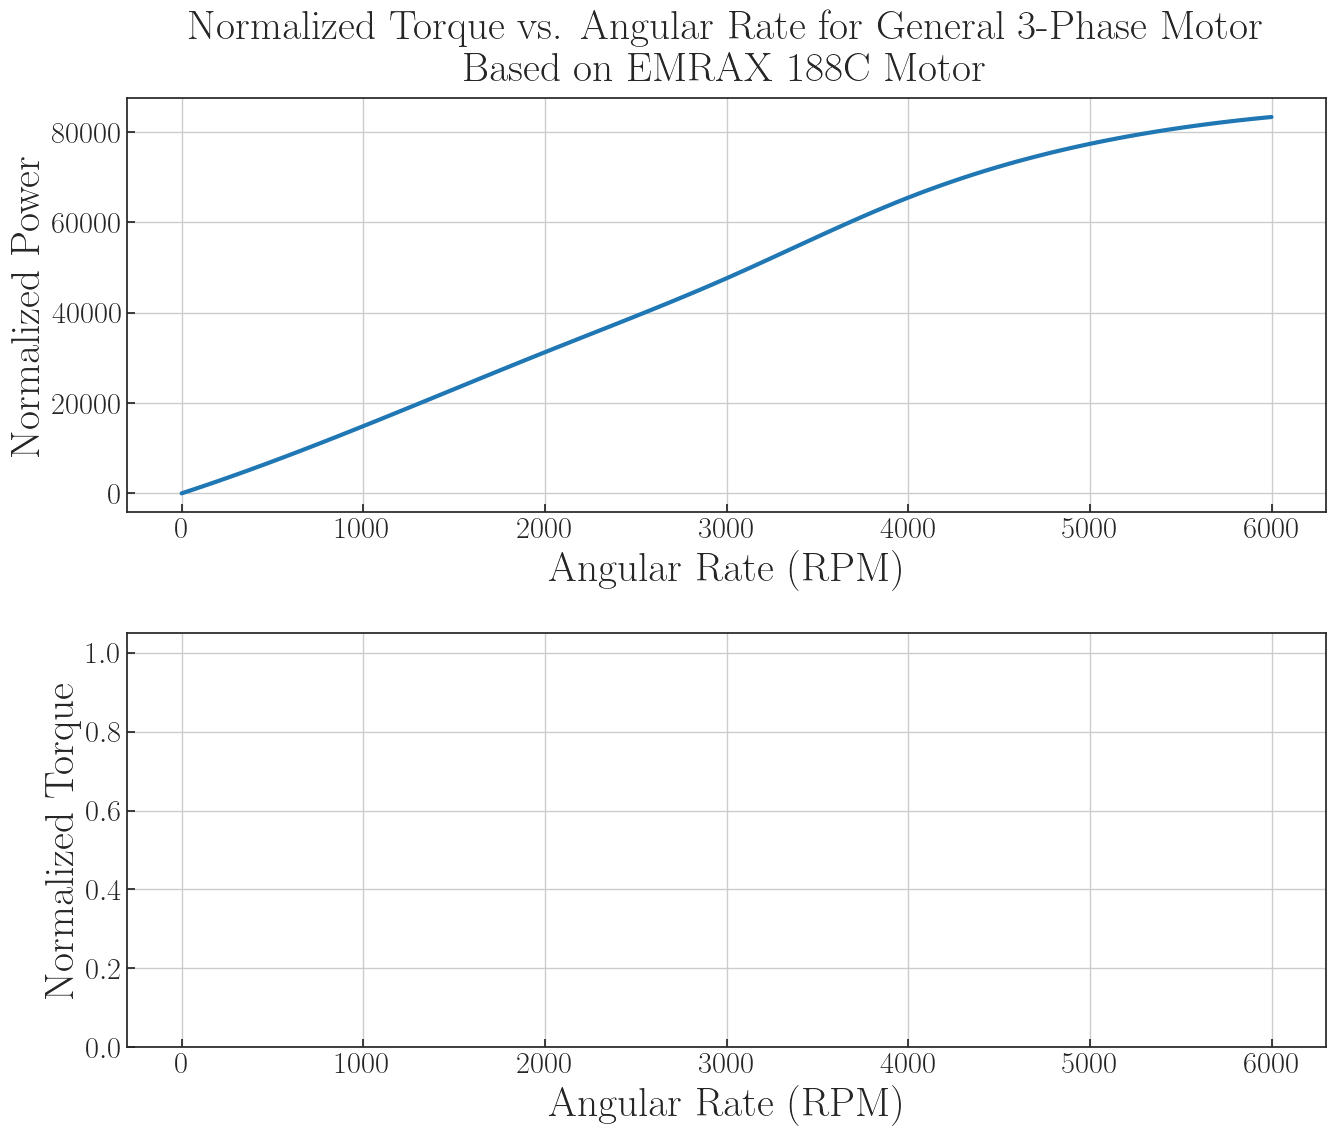
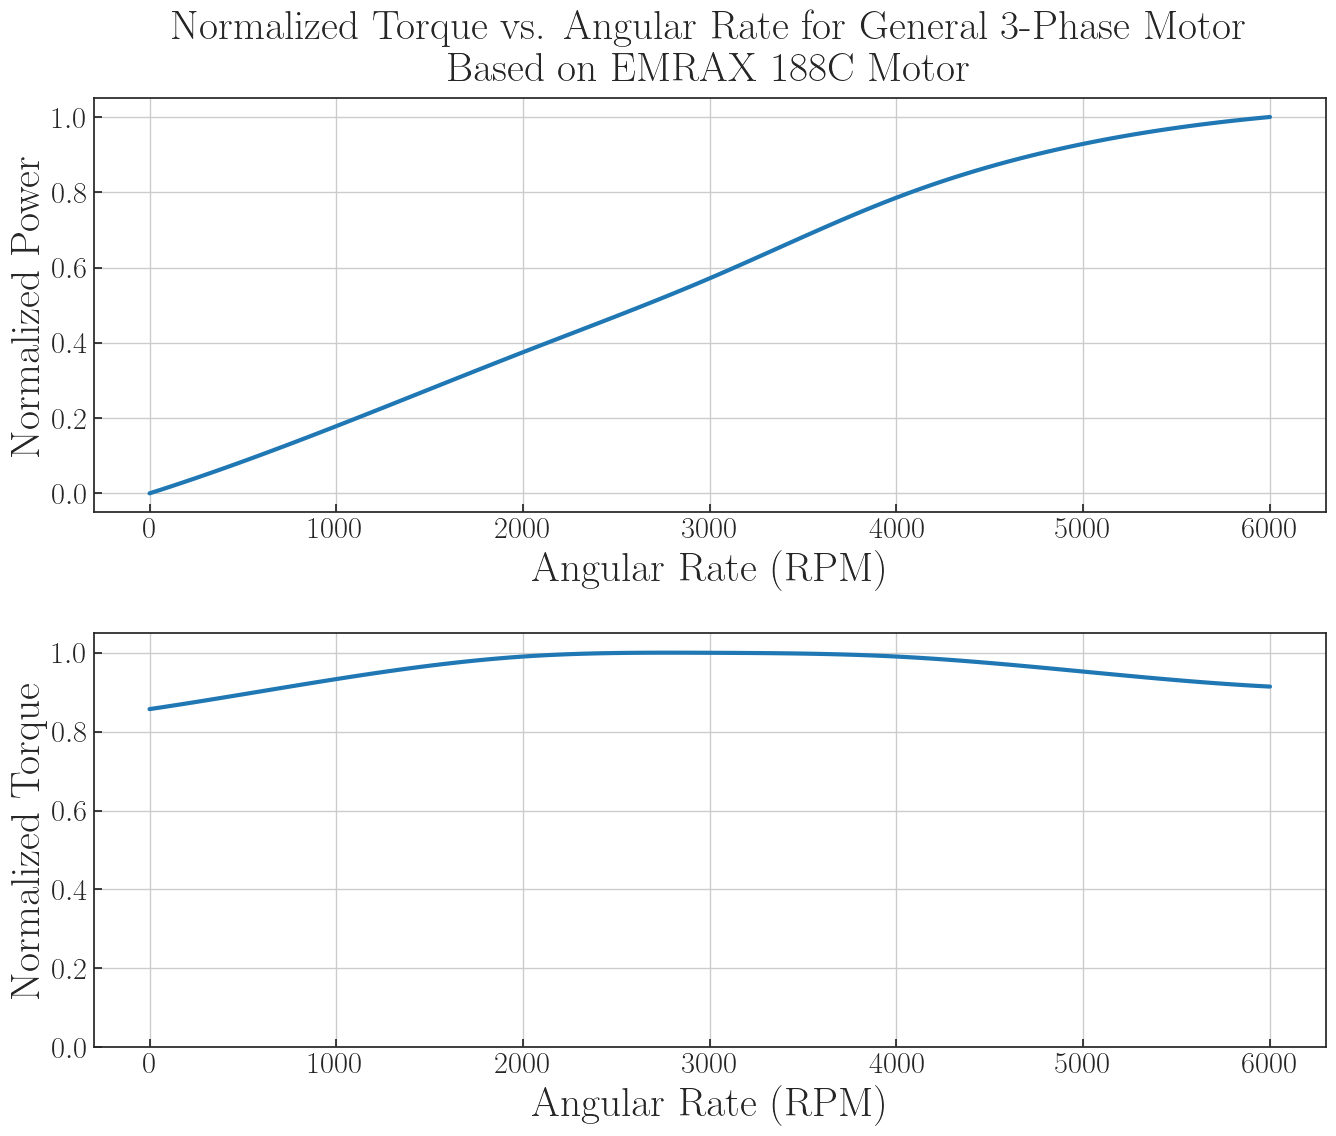
Quick commit
TVG 04.06.2021

diff --git a/Python_Codes/general_motor_performance.py b/Python_Codes/general_motor_performance.py
@@ -1,12 +1,12 @@
 # Quick plotting utility to show the normalized performance of electric motor
 # TVG 03.07.2021
 
+import scipy.interpolate as sci
 import numpy
 import matplotlib.pyplot as plt
 import sys
 sys.path.append("../Utilities")
 
-import scipy.interpolate as sci
 
 try:
     import formatfigures
@@ -17,46 +17,90 @@ except:
     print("Not using latex formatting")
     latex = False
 
-Emrax188_HV_CC = numpy.array([[0, 0],
-                                         [1000, 5000],
-                                         [2000, 10500],
-                                         [3000, 16000],
-                                         [4000, 22000],
-                                         [5000, 26000],
-                                         [6000, 28000]])
-
-Emrax188_HV_CC_Q = numpy.array([[45],
-                                    [49],
-                                    [52],
-                                    [52.5],
-                                    [52],
-                                    [50],
-                                    [48]])
+Emrax188_HV_CC = numpy.array([[0, 0, 45],
+                              [1000, 5000, 49],
+                              [2000, 10500, 52],
+                              [3000, 16000, 52.5],
+                              [4000, 22000, 52],
+                              [5000, 26000, 50],
+                              [6000, 28000, 48]])
 
 
-x = Emrax188_HV_CC[:,0]
-y = Emrax188_HV_CC[:,1]/Emrax188_HV_CC[6,1]
-z = Emrax188_HV_CC_Q[:,0]/max(Emrax188_HV_CC_Q)
+def cubicinterp(x, y, z):
+    xx = numpy.linspace(x.min(), x.max(), 100)
+    yy = sci.CubicSpline(x, y)
+    zz = sci.CubicSpline(x, z)
 
-xx = numpy.linspace(x.min(),x.max(),100)
-yy = sci.CubicSpline(x,y)
-zz = sci.CubicSpline(x,z)
+    return xx, yy, zz
+
+
+x = Emrax188_HV_CC[:, 0]
+y = Emrax188_HV_CC[:, 1]/Emrax188_HV_CC[6, 1]
+z = Emrax188_HV_CC[:, 2]/max(Emrax188_HV_CC[:, 2])
+xx1, yy1, zz1 = cubicinterp(x, y, z)
 
 plt.figure(figsize=(14, 12))
-plt.subplot(2,1,1)
-plt.plot(xx, yy(xx))
+plt.subplot(2, 1, 1)
+plt.plot(xx1, yy1(xx1))
 plt.xlabel("Angular Rate (RPM) ")
 plt.ylabel("Normalized Power")
 
 plt.title("Normalized Torque vs. Angular Rate for General 3-Phase Motor \n Based on EMRAX 188C Motor")
 
-plt.subplot(2,1,2)
-plt.plot(xx, zz(xx))
+plt.subplot(2, 1, 2)
+plt.plot(xx1, zz1(xx1))
 plt.xlabel("Angular Rate (RPM) ")
 plt.ylabel("Normalized Torque")
-plt.ylim((0,1.05))
+plt.ylim((0, 1.05))
 
 
 plt.tight_layout()
 plt.savefig('./Figures/motor_performance_general.png', bbox_inches='tight')
+
+# Comparison between different motors
+HPDM_250 = numpy.array([[0, 0, 120],
+                        [4000, 50000, 120],
+                        [8000, 100000, 120],
+                        [12000, 150000, 120],
+                        [16000, 190000, 115],
+                        [20000, 205000, 100]])
+
+x = HPDM_250[:, 0]/max(HPDM_250[:, 0])*max(Emrax188_HV_CC[:, 0])
+y = HPDM_250[:, 1]/max(HPDM_250[:, 1])
+z = HPDM_250[:, 2]/max(HPDM_250[:, 2])
+xx2, yy2, zz2 = cubicinterp(x, y, z)
+
+MAGNIX_250 = numpy.array([[0, 0, 1100],
+                          [1000, 96.66, 1400],
+                          [2000, 193.33, 1400],
+                          [3000, 290, 1400]])
+
+x = MAGNIX_250[:, 0]/max(MAGNIX_250[:, 0])*max(Emrax188_HV_CC[:, 0])
+y = MAGNIX_250[:, 1]/max(MAGNIX_250[:, 1])
+z = MAGNIX_250[:, 2]/max(MAGNIX_250[:, 2])
+xx3, yy3, zz3 = cubicinterp(x, y, z)
+
+plt.figure(figsize=(14, 12))
+plt.subplot(2, 1, 1)
+plt.plot(xx1, yy1(xx1), label='EMRAX')
+plt.plot(xx2, yy2(xx2), "--", label='H3X')
+plt.plot(xx3, yy3(xx3), "-.", label='MAGNIX')
+plt.xlabel("Angular Rate (RPM) ")
+plt.ylabel("Normalized Power")
+plt.legend()
+
+plt.title("Comparison of Normalized Torque vs. Angular Rate for Different Motors")
+
+plt.subplot(2, 1, 2)
+plt.plot(xx1, zz1(xx1), label='EMRAX')
+plt.plot(xx2, zz2(xx2), "--", label='H3X')
+plt.plot(xx3, zz3(xx3), "-.", label='MAGNIX')
+plt.xlabel("Angular Rate (RPM) ")
+plt.ylabel("Normalized Torque")
+plt.ylim((0, 1.05))
+plt.legend()
+
+plt.tight_layout()
+plt.savefig('./Figures/motor_performance_comparison.png', bbox_inches='tight')
+
 plt.show()

diff --git a/Python_Codes/prop_design_analysis_varpitch.py b/Python_Codes/prop_design_analysis_varpitch.py
@@ -149,15 +149,18 @@ plt.gca().set_title("Propeller Pitch Variation vs. Inlet Airspeed")
 
 # Analyze the propeller with the variable pitch propeller function
 # Plotting with several different RPM values
+lstyles = ["-", "--", "-.", ":","-", "--", "-.", ":"]
+jj = 0
 for RPM in range(500, 3500, 500):
     for ii in range(ll):
         prop.RPM = RPM
         J_var[ii], P_design_var[ii], T_design_var[ii], Q_design_var[ii], eta_P_var[ii], d_bet[ii] = prop_analysis_var_pitch(v_seq[ii], v_design, Emrax188_HV_CC_mod, is_HP, atm, prop, m0_fn, Cd_fn)
-    sp1.plot(v_seq, T_design_var,label='RPM = {}'.format(RPM))
+    sp1.plot(v_seq, T_design_var, lstyles[jj], label='RPM = {}'.format(RPM))
     # sp2.plot(v_seq, Q_design_var,label='RPM = {}'.format(RPM))
     # sp3.plot(v_seq, P_design_var,label='RPM = {}'.format(RPM))
-    sp4.plot(v_seq, eta_P_var,label='RPM = {}'.format(RPM))
-    sp5.plot(v_seq, d_bet,label='RPM = {}'.format(RPM))
+    sp4.plot(v_seq, eta_P_var, lstyles[jj], label='RPM = {}'.format(RPM))
+    sp5.plot(v_seq, d_bet, lstyles[jj], label='RPM = {}'.format(RPM))
+    jj += 1
 
 sp1.legend()
 # sp2.legend()
@@ -189,11 +192,13 @@ plt.gca().set_title("Power vs. Inlet Rotor Angular Rate")
 
 RPM = numpy.linspace(500, 3000, ll)
 
+jj = 0
 for v_in in range(2, 76, 16):
     for ii in range(ll):
         prop.RPM = copy.deepcopy(RPM[ii])
         J_var[ii], P_design_var[ii], T_design_var[ii], Q_design_var[ii], eta_P_var[ii], d_bet[ii] = prop_analysis_var_pitch(v_in, v_design, Emrax188_HV_CC_mod, is_HP, atm, prop, m0_fn, Cd_fn)
-    sp1.plot(RPM, T_design_var,label=r'$Vin = {}$ m/s'.format(v_in))
+    sp1.plot(RPM, T_design_var, lstyles[jj], label=r'$Vin = {}$ m/s'.format(v_in))
+    jj += 1
     
 sp2.plot(RPM, Q_design_var,label='Propeller')
 sp3.plot(RPM, P_design_var,label='Propeller')
@@ -210,8 +215,8 @@ nn = 3
 frac = numpy.linspace(1,0.9,nn)
 
 for jj in range(nn):
-    sp2.plot(xx,QQ(xx)*frac[jj],label='{}\% of Max Continuous (Motor)'.format(int(frac[jj]*100)),linestyle='dashed')
-    
+    sp2.plot(xx,QQ(xx)*frac[jj], lstyles[jj], label='{}\% of Max Continuous (Motor)'.format(int(frac[jj]*100)),linestyle='dashed')
+
 sp3.plot(xx,PP(xx)*1,label='{}\% of Max Continuous (Motor)'.format(int(100)),linestyle='dashed')
 sp1.legend()
 sp2.legend()
